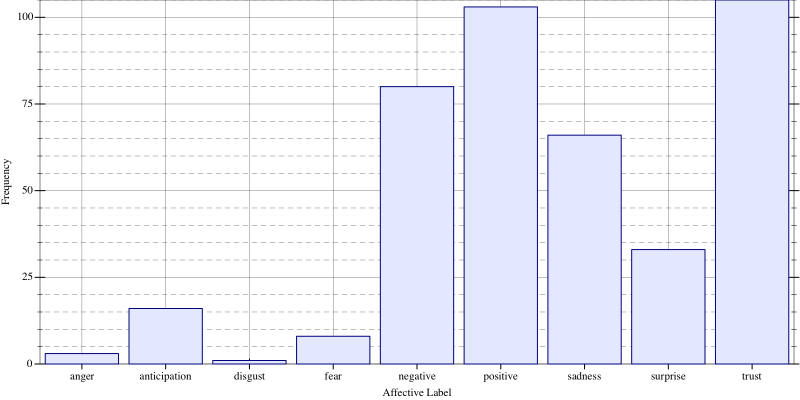
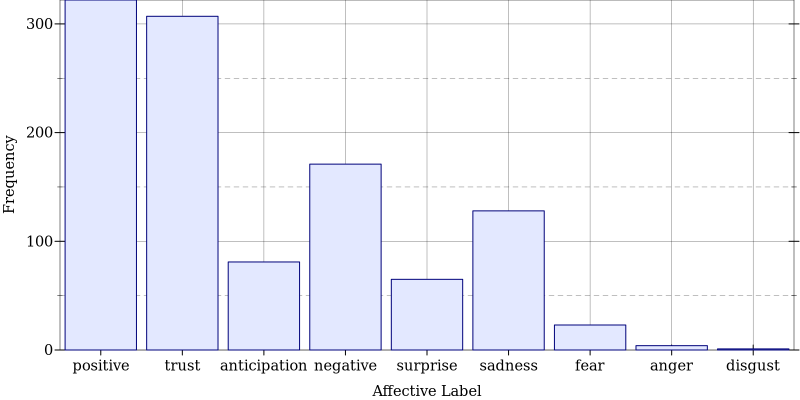
Updated sentiment example for proper analysis

diff --git a/README.md b/README.md
@@ -435,24 +435,30 @@ Individual functions, documented below, offer fine-grained control over analysis
 (define words (document->tokens alice-text #:sort? #t))
 
 ;;; Using the nrc lexicon, we can label each (non stop-word) with an
-;;; emotional label, counting up each occurrence of each label
-(sorted-counts (filter (λ (x) x) (list->sentiment words #:lexicon 'nrc)))
-;;; --> '(("anger" 3)
-;;;       ("anticipation" 16)
-;;;       ("disgust" 1)
-;;;       ("fear" 8)
-;;;       ("negative" 80)
-;;;       ("positive" 103)
-;;;       ("sadness" 66)
-;;;       ("surprise" 33)
-;;;       ("trust" 105))
+;;; emotional label. The call to filter is used to remove tokens with no 
+;;; sentiment score (returned as #f)
+(define sentiment (filter (λ (x) (first x)) (list->sentiment words #:lexicon 'nrc)))
+
+;;; sentiment, created above, consists of a list of pairs of the pattern
+;;; ("sentiment" freq) for each token in the document. Many words will have the
+;;; same sentiment label, so we aggregrate (by summing) across such tokens.
+(aggregate sum (map first sentiment) (map second sentiment))
+;;; --> '(("positive" 322)
+;;;       ("trust" 307)
+;;;       ("anticipation" 81)
+;;;       ("negative" 171)
+;;;       ("surprise" 65)
+;;;       ("sadness" 128)
+;;;       ("fear" 23)
+;;;       ("anger" 4)
+;;;       ("disgust" 1))
 
 ;;; Better yet, we can visualize this result as a barplot (discrete-histogram)
 (parameterize ((plot-width 800))
   (plot (list
 	 (tick-grid)
 	 (discrete-histogram
-	  (sorted-counts (filter (λ (x) x) (list->sentiment words #:lexicon 'nrc)))))
+	  (aggregate sum (map first sentiment) (map second sentiment))))
 	#:x-label "Affective Label"
 	#:y-label "Frequency"))
 ```
@@ -479,9 +485,91 @@ Individual functions, documented below, offer fine-grained control over analysis
 
 ### document->tokens
 
+```racket
+(document->tokens str [#:sort? #f])
+```
+
+For string `str`, returns a list of pairs. Each pair consists of a unique word/token from `str` with its frequency.
+
+Examples:
+
+```racket
+(document->tokens "there there are are two two of of everything everything except except this") 
+;;; --> '(("there" 2)
+;;;       ("are" 2)
+;;;       ("two" 2)
+;;;       ("of" 2)
+;;;       ("everything" 2)
+;;;       ("except" 2)
+;;;       ("this" 1))
+```
+
 ### token->sentiment
 
+```racket
+(token->sentiment token [#:lexicon 'nrc])
+```
+
+For a given word/token `token`, returns its corresponding sentiment value if possible. `#:lexicon` can be the symbols:
+
+- nrc --> Returns an affective label from the set (anger anticipation disgust fear negative positive sadness surprise trust), or #f if `token` is unknown.
+- bing --> Returns a polarity label from the set (negative positive), or #f if `token` is unknown.
+- AFINN --> Returns a sentiment scores ranging from -4 (very negative) to +4 (very positive), or 0 if `token` is unknown.
+
+Examples:
+
+```racket
+;;; nrc lexicon examples --------------------
+
+(token->sentiment "marriage" #:lexicon 'nrc)
+;;; --> "trust"
+
+(token->sentiment "fire" #:lexicon 'nrc)
+;;; --> "fear"
+
+(token->sentiment "the" #:lexicon 'nrc)
+;;; --> #f
+
+;;; bing lexicon examples --------------------
+
+(token->sentiment "love" #:lexicon 'bing)
+;;; --> "positive"
+
+(token->sentiment "hate" #:lexicon 'bing)
+;;; --> "negative"
+
+(token->sentiment "the" #:lexicon 'bing)
+;;; --> #f
+
+;;; AFINN lexicon examples --------------------
+
+(token->sentiment "love" #:lexicon 'AFINN)
+;;; --> 3
+
+(token->sentiment "cry" #:lexicon 'AFINN)
+;;; --> -1
+
+(token->sentiment "everest" #:lexicon 'AFINN)
+;;; --> 0
+```
+
 ### list->sentiment
+
+```racket
+(list->sentiment lst [#:lexicon 'nrc])
+```
+
+Returns a list of sentiment values for `lst`, which is a list of pairs of words/tokens and their frequency, as returned by `document->tokens`. `#:lexicon` can be the symbols:
+
+- nrc --> Returns an affective label from the set (anger anticipation disgust fear negative positive sadness surprise trust), or #f if `token` is unknown.
+- bing --> Returns a polarity label from the set (negative positive), or #f if `token` is unknown.
+- AFINN --> Returns a sentiment scores ranging from -4 (very negative) to +4 (very positive), or 0 if `token` is unknown.
+
+Examples:
+
+```racket
+
+```
 
 ## Plotting Functions
 
